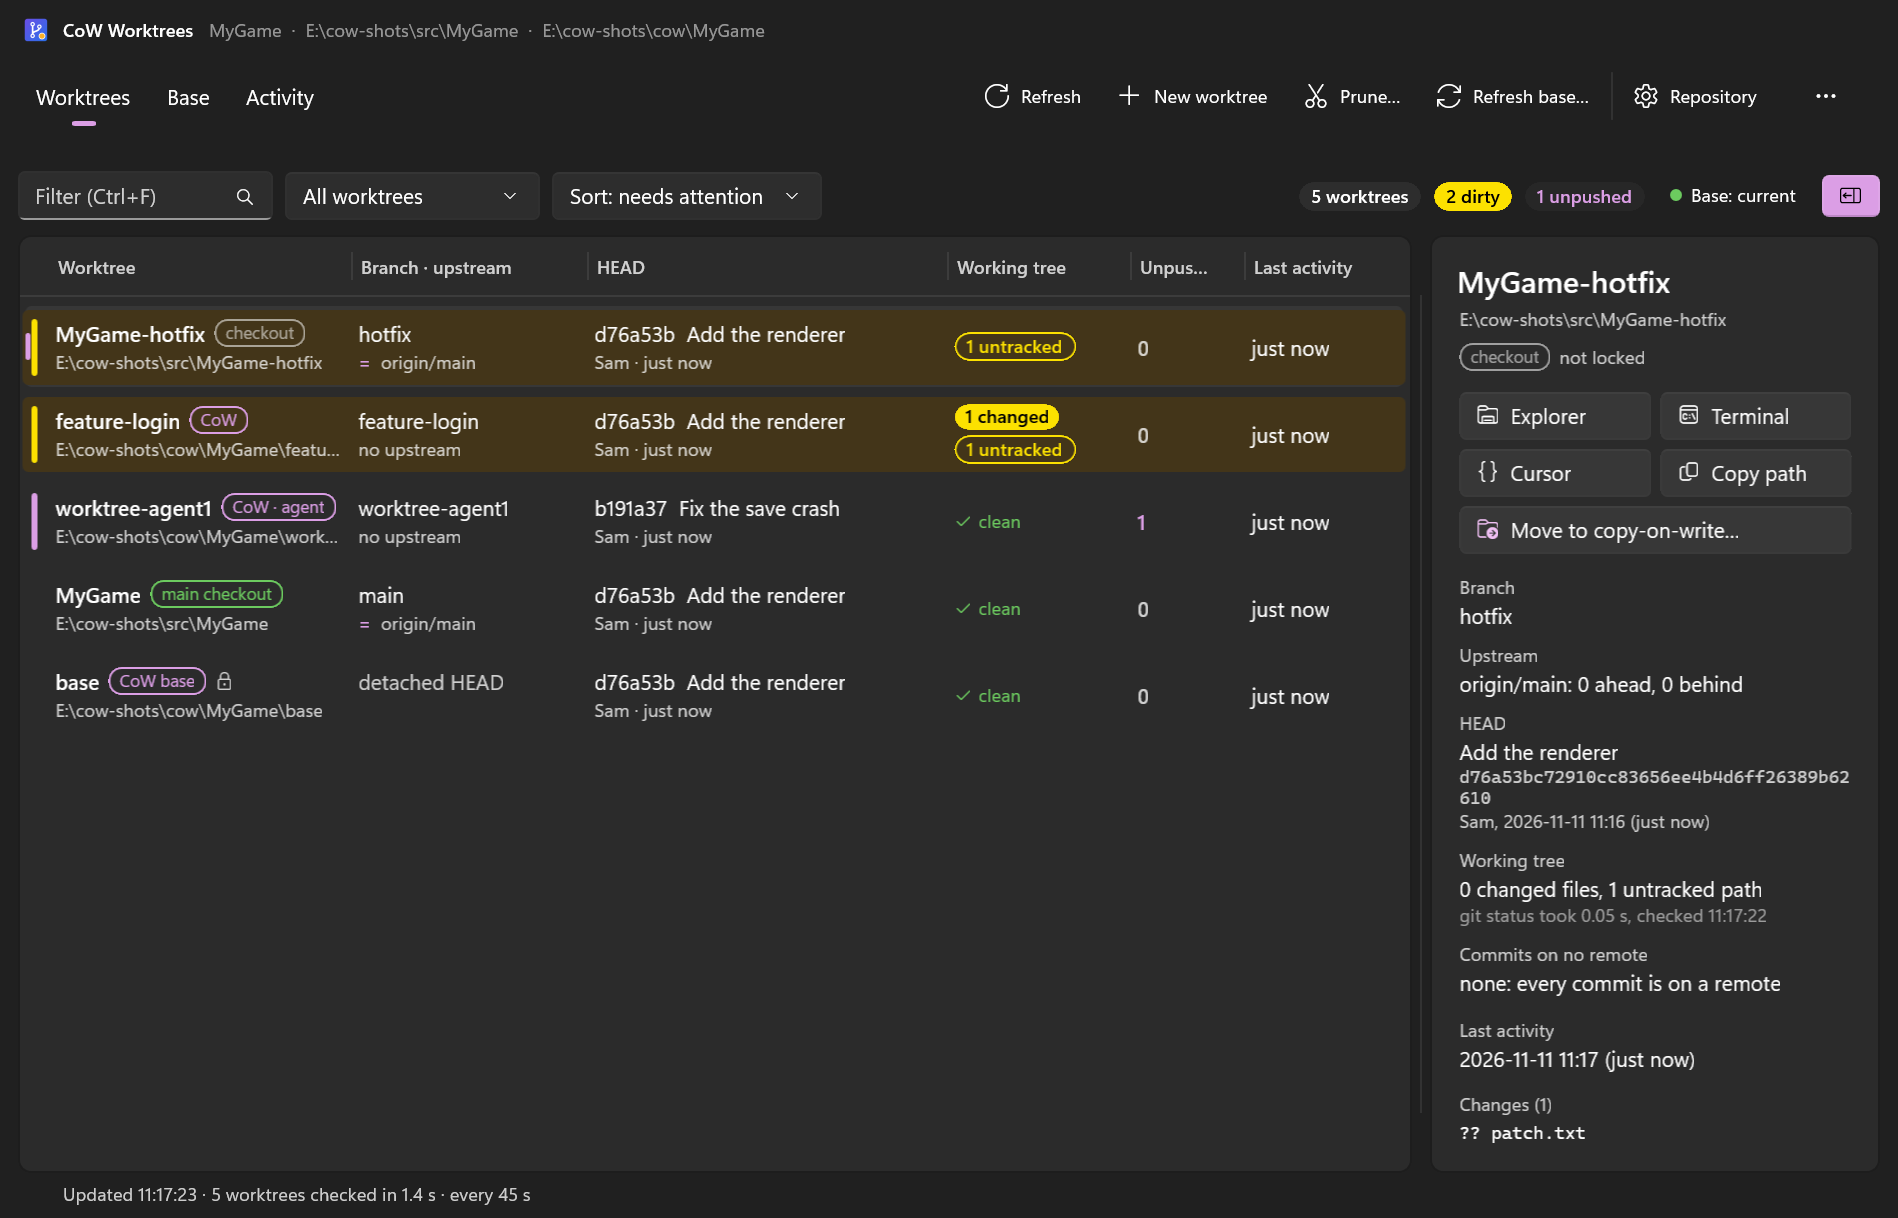
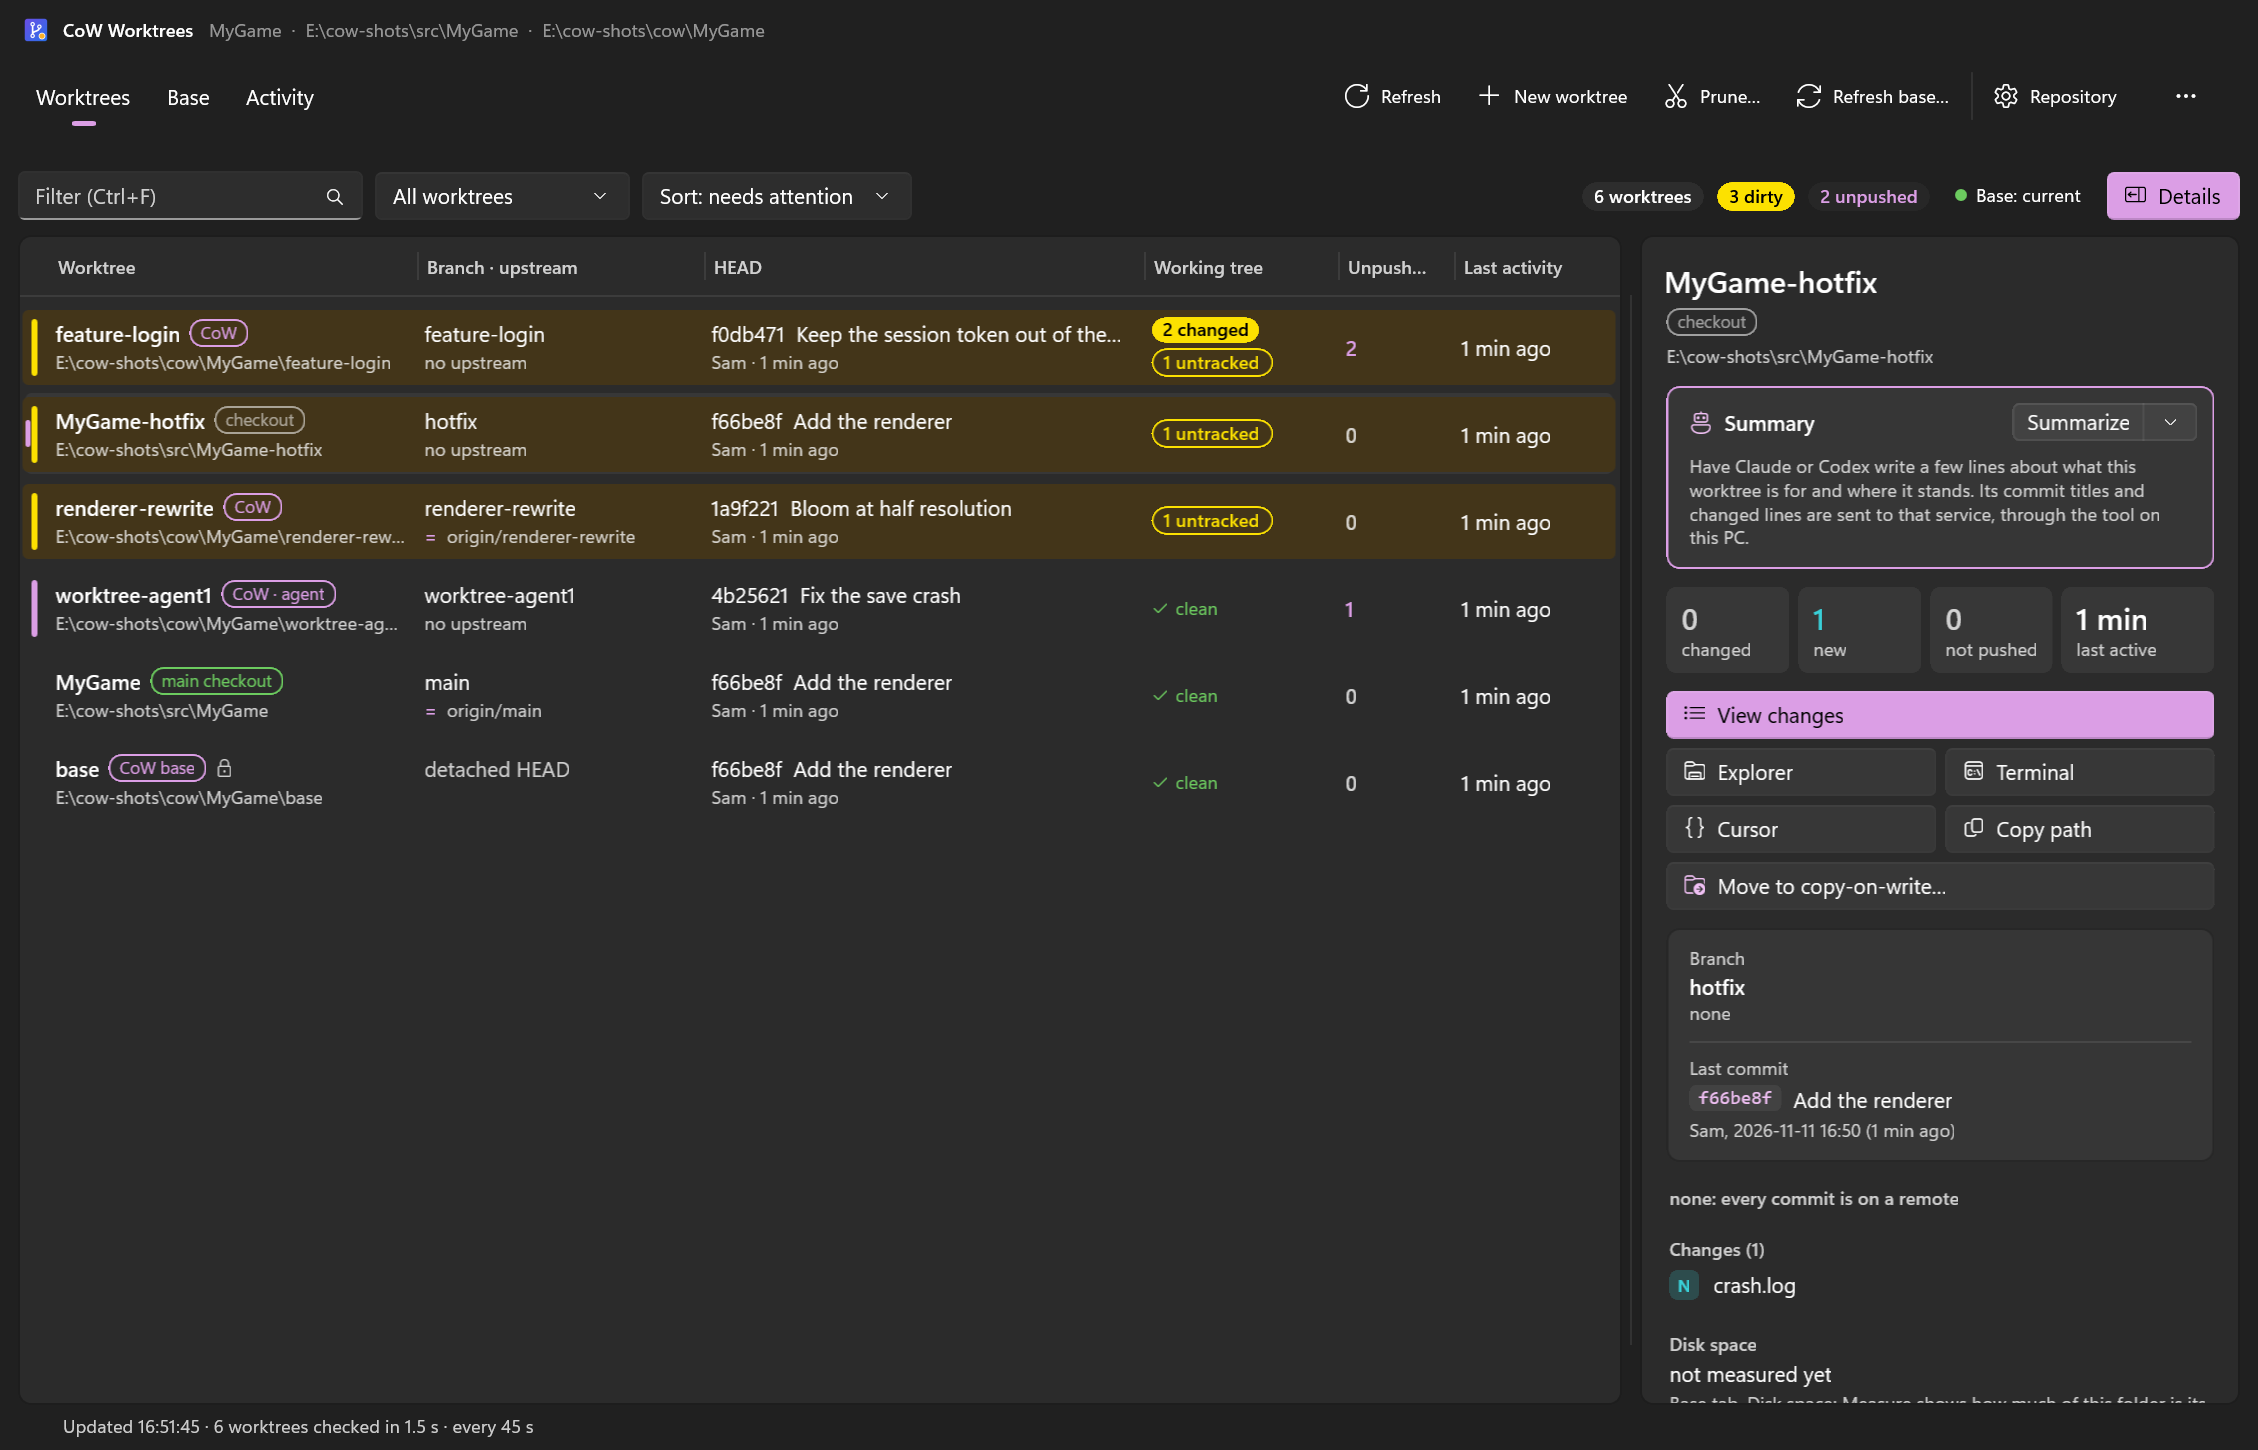
cow-worktrees 1.2.0
Version, changelog and the app's pages for the Changes view, summaries, disk space, setups from before and the faster list; the Worktrees and Move pictures retaken with the new details pane, and a picture of the Changes view.

diff --git a/gui/README.md b/gui/README.md
@@ -4,8 +4,10 @@ A native Windows app (WinUI 3, Windows App SDK 1.8, C# / .NET 8) for **cow-workt
 as copy-on-write clones of a built base worktree on a ReFS Dev Drive. It walks a newcomer through getting
 started, sets a repository up, connects Claude Code and Codex, and then shows every worktree of the
 repository: which ones are dirty or hold commits that exist nowhere else, which ones could be pruned, and
-whether the base that new worktrees are cloned from is current. It creates, removes, prunes and moves
-worktrees, refreshes the base, changes the setup later and keeps itself up to date.
+whether the base that new worktrees are cloned from is current. It shows what each worktree changed, line
+by line and in colour, with a summary by Claude or Codex if you want one, and what the folders really
+take on the drive. It creates, removes, prunes and moves worktrees, refreshes the base, changes the setup
+later and keeps itself up to date.
 
 The app does not re-implement any of this. Setup, removal and every worktree action are the PowerShell
 scripts of this repository, and the app shows the exact command line of each one before and while it runs
@@ -151,7 +153,8 @@ Dirty rows are tinted with an orange bar; red = broken or commits at risk, blue 
 - **Filtering**: the count chips (`3 dirty`, `1 unpushed`, `2 prunable`, `5 worktrees`) filter the list when
   clicked; the Filter box has the same choices plus copy-on-write / other checkouts; Ctrl+F searches by name,
   branch or path.
-- **Details pane** (Ctrl+D hides it; drag its edge to resize): full commit, upstream, the unpushed commits,
+- **Details pane** (Ctrl+D hides it; drag its edge to resize; more under
+  [The details pane and summaries](#the-details-pane-and-summaries)): a summary, full commit, upstream, the unpushed commits,
   the folder's own and shared disk space once it has been measured (see [Disk space](#disk-space)),
   the pool data from `cow_worktree.ps1 -List -Json` (commits since the worktree was made, start commit, why
   `-Prune` keeps it), its `git status` lines, and the buttons: Explorer, Terminal, editor, Copy path,
@@ -333,12 +336,15 @@ ticked. "Get started" below it sets up another project as before.
 Selecting a worktree shows it on the right: its name, kind and folder; a **Summary** card; four numbers
 (changed files, new files, commits that are on no remote, time since the last activity); the buttons;
 the branch and last commit; then the commits that are on no remote and the changed files, one row each.
-A commit's row opens the Changes view on that commit, a file's row opens it at that file.
+A commit's row opens the Changes view on that commit, a file's row opens it at that file. Below them:
+the folder's disk space as last measured on the Base tab, and for a copy-on-write worktree where it
+started and whether pruning would remove it.
 
 **Summarize** has Claude or Codex write a few lines about the worktree: one sentence on what it is for,
 two to five points on what was done, and an "Open:" line when something is unfinished. The arrow next
 to the button chooses the tool (the button itself uses the one chosen last), copies the summary or
-removes it. It is written only when you press the button, never by itself.
+removes it. It is written only when you press the button, unless you turn on the option at the end of
+this list.
 
 - **What is sent.** The worktree's name and branch, its commit titles, the list of changed files with
   their line counts, and excerpts of the changed lines (about 60,000 characters at most): the work since
@@ -367,6 +373,8 @@ removes it. It is written only when you press the button, never by itself.
 **View changes** (the button at the top of a worktree's details, the right-click menu, or Ctrl+Shift+D)
 fills the window with what changed in the selected worktree. It works on every row: copy-on-write
 worktrees, plain checkouts and the project's main folder.
+
+![The Changes view](docs/changes.png)
 
 - **The box at the top** chooses what is compared: *Uncommitted changes* (edits and new files that are
   not in a commit yet), *Everything since this worktree was made* (its commits and its uncommitted edits
@@ -638,7 +646,7 @@ adds them, the ones of the views in `Views\` included, and `build.ps1` checks th
 ### A release
 
 ```powershell
-.\release.ps1 -Version 1.1.0     # in the repository's top folder
+.\release.ps1 -Version 1.2.0     # in the repository's top folder
 ```
 
 `release.ps1` runs `gui\build.ps1 -Version <version>`, then `package.ps1`, which stages the release in

diff --git a/README.md b/README.md
@@ -222,6 +222,12 @@ It says "repository" where the scripts and these pages say "pool".
 - **Worktrees.** Every worktree of the repository, including ones outside the pool, with its branch,
   uncommitted changes, unpushed commits and idle time; dirty ones are highlighted. Create, remove, prune
   and move to copy-on-write from here.
+- **Changes.** "View changes" on a worktree fills the window with what it changed: the files on the
+  left, every changed line on the right in colour, for its uncommitted edits, for everything since it
+  was made, or for one commit.
+- **Summaries.** A worktree's details can carry a few lines written by Claude Code or Codex: what it
+  is for, what was done, what is still open. On request, or kept up to date by itself when you turn
+  that on.
 - **Base.** The base's health: commit against `baseRef`, build state, locks, the daily task and the
   logs. Refresh the base from here. **Disk space** on the same tab measures what the folders really take
   on the drive, which Explorer cannot show: for each one its own space (what removing it gives back)

diff --git a/CHANGELOG.md b/CHANGELOG.md
@@ -1,6 +1,10 @@
 # Changelog
 
-## Unreleased
+## 1.2.0
+
+The app now shows what a worktree did, not only that it changed: a full-window view of every changed
+line, a summary written by Claude or Codex, and what the folders really take on the drive. It is also
+faster, and an app installed again finds the setups made before.
 
 ### Added
 
